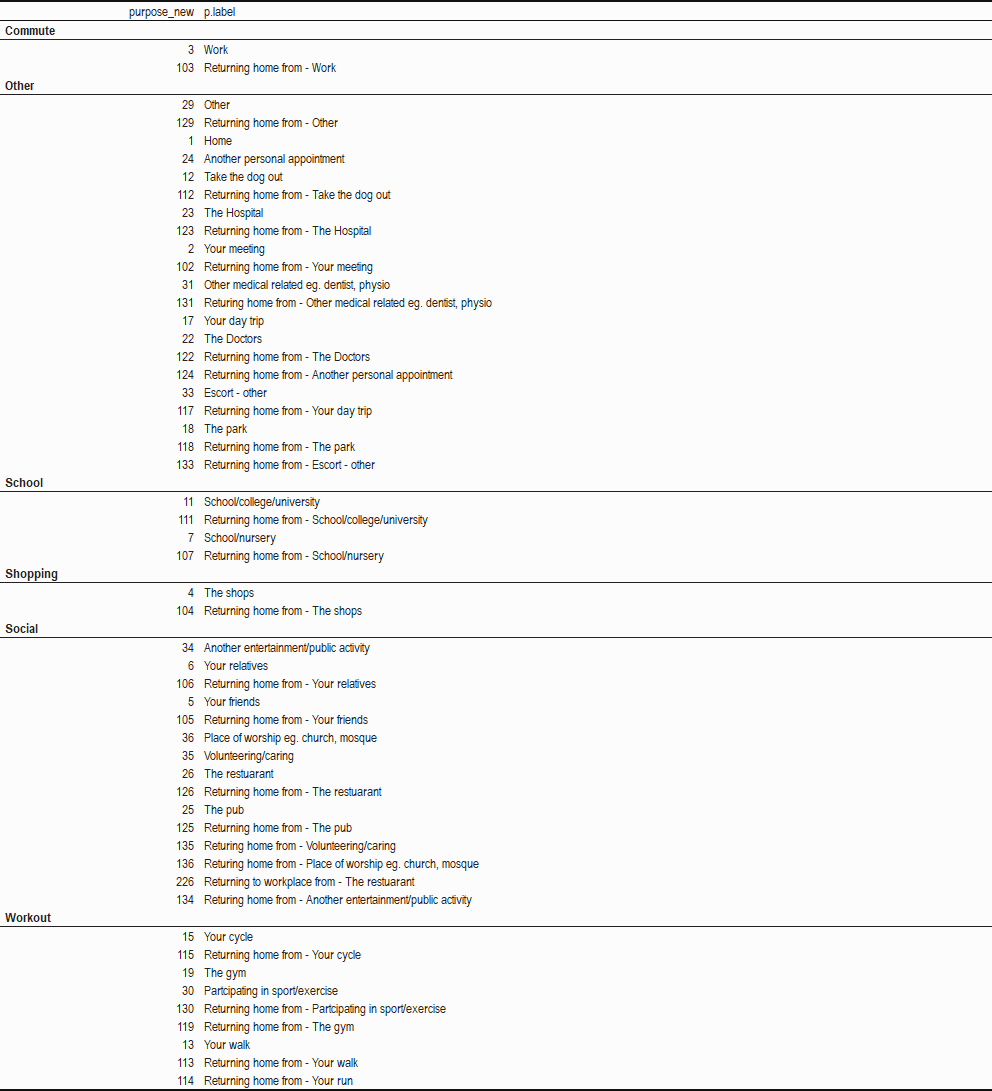
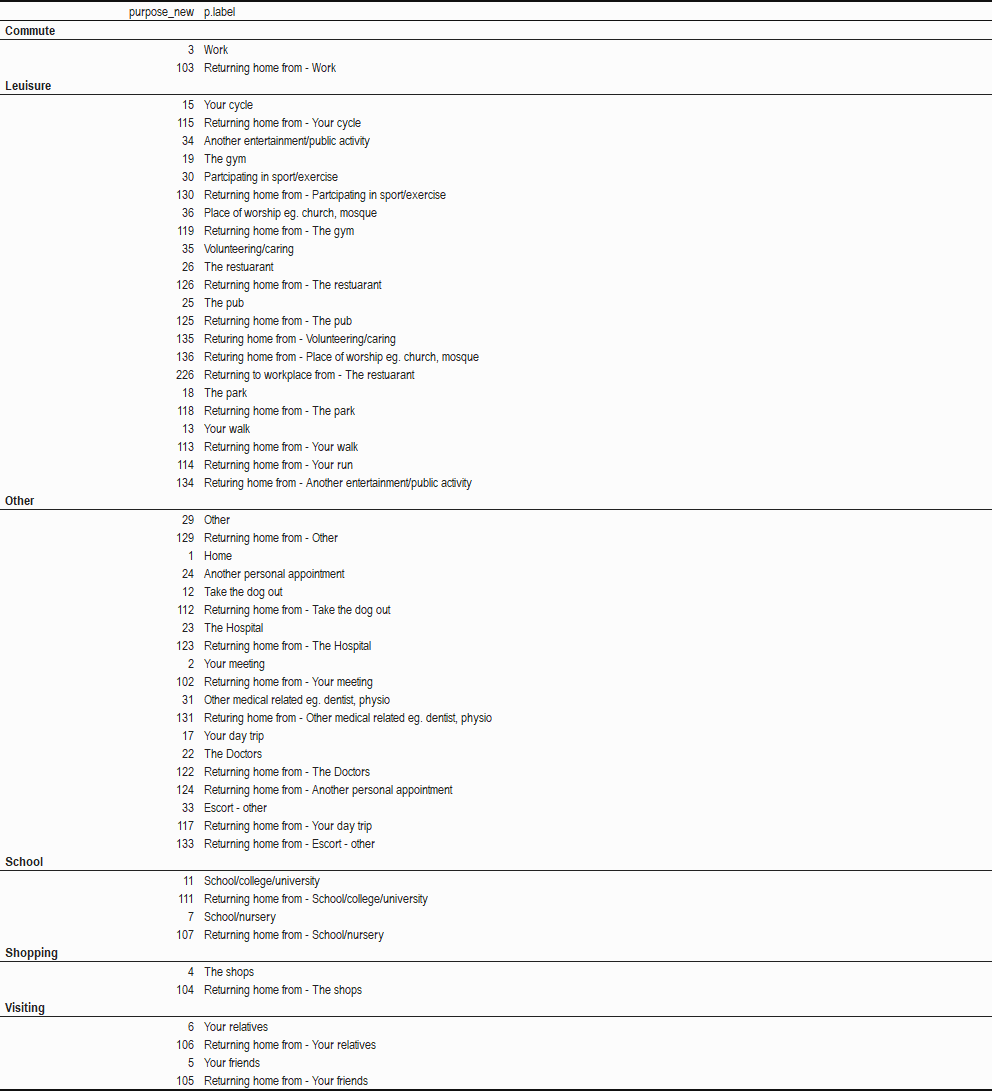
adjusted the trip purposes and added AADT factors for all modes

diff --git a/README.md b/README.md
@@ -430,6 +430,8 @@ TLD_mode_purp |>
 
 ## Annualisation factors calculation
 
+### Bike baseline
+
 In order to estimate the trip frequency by purpose, the stage tables
 from the survey are used. The following code loads the data into the
 environment.
@@ -514,55 +516,55 @@ NPT_purposes_equiv <- tribble(
   103, 'Commute',
   4, 'Shopping',
   104, 'Shopping',
-  15, 'Workout',
+  15, 'Leuisure',
   29, 'Other',
   129, 'Other',
   1, 'Other',
-  115, 'Workout',
-  34, 'Social',
-  6, 'Social',
-  19, 'Workout',
+  115, 'Leuisure',
+  34, 'Leuisure',
+  6, 'Visiting',
+  19, 'Leuisure',
   24, 'Other',
-  106, 'Social',
-  5, 'Social',
-  105, 'Social',
+  106, 'Visiting',
+  5, 'Visiting',
+  105, 'Visiting',
   12, 'Other',
   112, 'Other',
   11, 'School',
   111, 'School',
-  30, 'Workout',
-  130, 'Workout',
+  30, 'Leuisure',
+  130, 'Leuisure',
   23, 'Other',
   123, 'Other',
   7, 'School',
   107, 'School',
   2, 'Other',
   102, 'Other',
-  36, 'Social',
+  36, 'Leuisure',
   31, 'Other',
   131, 'Other',
-  119, 'Workout',
-  35, 'Social',
-  26, 'Social',
-  126, 'Social',
-  25, 'Social',
-  125, 'Social',
+  119, 'Leuisure',
+  35, 'Leuisure',
+  26, 'Leuisure',
+  126, 'Leuisure',
+  25, 'Leuisure',
+  125, 'Leuisure',
   17, 'Other',
   22, 'Other',
   122, 'Other',
-  135, 'Social',
+  135, 'Leuisure',
   124, 'Other',
   33, 'Other',
-  136, 'Social',
+  136, 'Leuisure',
   117, 'Other',
-  226, 'Social',
-  18, 'Other',
-  118, 'Other',
-  13, 'Workout',
-  113, 'Workout',
+  226, 'Leuisure',
+  18, 'Leuisure',
+  118, 'Leuisure',
+  13, 'Leuisure',
+  113, 'Leuisure',
   133, 'Other',
-  114, 'Workout',
-  134, 'Social'
+  114, 'Leuisure',
+  134, 'Leuisure'
 )
 ```
 
@@ -646,13 +648,67 @@ purpose_factors_dtype = purpose_factors |>
   summarise(factor_AADT = weighted.mean(N_trips_mean,wd.wt),
             .by = NPT_purpose)
 
-purpose_factors_dtype |> 
-  kbl(digits=4) |>
-  kable_classic_2() |>
-  as_image(width = 10,file = "README_files/figure-gfm/AADT_factors.png")
+# purpose_factors_dtype |> 
+#   kbl(digits=4) |>
+#   kable_classic_2() |>
+#   as_image(width = 10,file = "README_files/figure-gfm/AADT_factors.png")
+
+purpose_factors_dtype 
 ```
 
-<img src="README_files/figure-gfm/AADT_factors.png" width="960" />
+    ## # A tibble: 6 × 2
+    ##   NPT_purpose factor_AADT
+    ##   <chr>             <dbl>
+    ## 1 Commute            1.74
+    ## 2 Shopping           1.53
+    ## 3 Leuisure           1.61
+    ## 4 Other              1.26
+    ## 5 Visiting           1.61
+    ## 6 School             1.59
+
+### All modes AADT
+
+A similar analysis is undertaken for all modes to estimate the trip
+frequency across all modes for different purposes
+
+``` r
+all_mode_factor = data.stage |>
+  filter(mode < 9) |> 
+  select(UNIQIDNEW,dyear,IND_WT,trav_wt,purpose_new,travday) |> 
+  unique() |>
+  left_join(NPT_purposes_equiv,by = "purpose_new") |>
+  drop_na() |> 
+  summarise(N_trips = n(),
+            .by = c(dyear,travday,UNIQIDNEW,NPT_purpose,trav_wt)) |> 
+  summarise(N_trips_mean = weighted.mean(N_trips,trav_wt,na.rm = T),
+            N_trips_median=matrixStats::weightedMedian(N_trips,trav_wt,na.rm = T),
+            .by = c(travday,NPT_purpose)) |> 
+  mutate(wd.type = case_when(travday<6~"weekday",
+                            travday==6~"saturday",
+                            TRUE~"sunday/bankholiday")) |>
+  summarise(across(c(N_trips_mean,N_trips_median),
+                   mean),
+            .by = c(wd.type,NPT_purpose)) |> 
+  mutate(wd.wt = case_when(wd.type=="weekday"~250,
+                           wd.type=="saturday"~52,
+                           wd.type=="sunday/bankholiday"~63)) |> 
+  summarise(factor_AADT = weighted.mean(N_trips_mean,wd.wt),
+            .by = NPT_purpose)
+
+all_mode_factor
+```
+
+    ## # A tibble: 6 × 2
+    ##   NPT_purpose factor_AADT
+    ##   <chr>             <dbl>
+    ## 1 Other              1.59
+    ## 2 Commute            1.81
+    ## 3 Leuisure           1.62
+    ## 4 Shopping           1.66
+    ## 5 Visiting           1.51
+    ## 6 School             1.67
+
+## References
 
 <div id="refs" class="references csl-bib-body">
 
